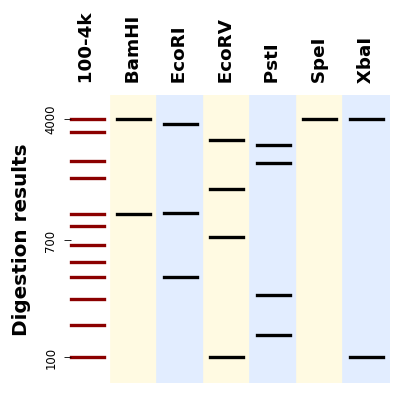
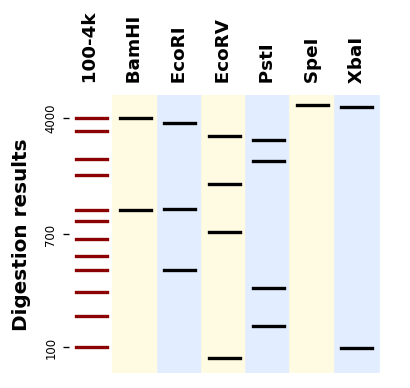
Fixed python3 differences in ladder ticks

diff --git a/bandwagon/BandsPattern.py b/bandwagon/BandsPattern.py
@@ -1,9 +1,10 @@
 """Define Bandwagon's classes Band, BandPattern, BandsPatternsSet."""
 
 import numpy as np
+from scipy.interpolate import CubicSpline
 from copy import deepcopy
 import matplotlib.pyplot as plt
-from .tools import place_inset_ax_in_data_coordinates, updated_dict
+from .tools import (place_inset_ax_in_data_coordinates, updated_dict)
 
 try:
     from bokeh.plotting import ColumnDataSource, figure
@@ -13,9 +14,6 @@ try:
     BOKEH_PANDAS_AVAILABLE = True
 except ImportError:
     BOKEH_PANDAS_AVAILABLE = False
-
-
-
 
 
 class Band:
@@ -206,7 +204,7 @@ class BandsPattern:
         """Create the variables necessary to compute some properties.
 
         Concerned properties are ``self.dna_sizes``,
-        ``self.migration_distances``, ``self.migration_distance_span``,
+        ``self.migration_distances``, ``self.migration_distances_span``,
         ``self.dna_size_span``, and indirectly the functions
         ``dna_size_to_migration`` and ``migration_to_dna_size``.
         """
@@ -216,24 +214,32 @@ class BandsPattern:
             np.array(e)
             for e in zip(*[
                 (band.dna_size, band.migration_distance)
-                for band in sorted(self.bands, key=lambda b: b.dna_size)
+                for band in sorted(set(self.bands), key=lambda b: b.dna_size)
             ])
         ]
-        self.migration_distance_span = (min(self.migration_distances),
-                                        max(self.migration_distances))
+        self.migration_distances_span = (min(self.migration_distances),
+                                         max(self.migration_distances))
         self.dna_size_span = min(self.dna_sizes), max(self.dna_sizes)
+        self._dna_size_to_migration_interpolator = None
+        self._migration_to_dna_size_interpolator = None
 
     def dna_size_to_migration(self, dna_sizes):
         """Return the migration distances for the given dna sizes"""
-        return np.interp(dna_sizes, self.dna_sizes, self.migration_distances,
-                         left=max(self.migration_distances),
-                         right=min(self.migration_distances))
+        if self._dna_size_to_migration_interpolator is None:
+            self._dna_size_to_migration_interpolator = CubicSpline(
+                self.dna_sizes, self.migration_distances,
+                bc_type='natural'
+            )
+        return self._dna_size_to_migration_interpolator(dna_sizes)
 
     def migration_to_dna_size(self, migration_distances):
         """Return the dna sizes corresponding to the given migrations."""
-        return np.interp(migration_distances, self.migration_distances[::-1],
-                         self.dna_sizes[::-1], left=min(self.dna_sizes),
-                         right=max(self.dna_sizes))
+        if self._migration_to_dna_size_interpolator is None:
+            self._migration_to_dna_size_interpolator = CubicSpline(
+                self.migration_distances[::-1], self.dna_sizes[::-1],
+                bc_type='natural'
+            )
+        return self._migration_to_dna_size_interpolator(migration_distances)
 
     def _processed_bands(self):
         """Return the bands modified by ``self.global_bands_props``"""
@@ -355,7 +361,6 @@ class BandsPatternsSet:
       columns. Leave to None for no background. If some patterns have a
       background color set this color will override the
       ``alternate_background_colors``.
-
     """
 
     def __init__(self, patterns, ladder, label=None, label_fontdict=None,
@@ -401,9 +406,12 @@ class BandsPatternsSet:
         if self.ladder is None:
             raise ValueError("Provide a `ladder` to BandsPatternsSet to enable"
                              " ladder ticks display.")
-        fontdict = updated_dict(dict(size=7, rotation=90), self.ticks_fontdict)
+        fontdict = updated_dict(
+            dict(size=7, rotation=90, verticalalignment='center'),
+            self.ticks_fontdict
+        )
         if isinstance(ticks, int):
-            bmin, bmax = self.ladder.migration_distance_span
+            bmin, bmax = self.ladder.migration_distances_span
             migrations = np.linspace(bmin, bmax, ticks)
             ticks = [self.ladder.migration_to_dna_size(m) for m in migrations]
             ticks = [int(np.round(b, -2)) for b in ticks]  # round to 100
@@ -430,7 +438,7 @@ class BandsPatternsSet:
         ax.set_frame_on(False)
         ax.set_yticks([])
         ax.set_xticks([])
-        y1, y2 = self.ladder.migration_distance_span
+        y1, y2 = self.ladder.migration_distances_span
         ax.set_ylim(-1.1 * y2, 0)
 
     def plot(self, ax=None):
@@ -441,6 +449,7 @@ class BandsPatternsSet:
         self._plot_label(ax)
         self._plot_ladder_ticks(ax)
         self._plot_patterns(ax)
+        ax.set_xlim(xmin=0.5)
         return ax
 
     def plot_with_bokeh(self, max_visible_patterns=12, band_width_pixels=40):
@@ -462,7 +471,7 @@ class BandsPatternsSet:
             raise ImportError("Install Bokeh and Pandas to use this feature")
         max_x = min(max_visible_patterns, len(self.patterns) + 1)
         max_migration = self.ladder.migration_distances.max()
-        mmin, mmax = self.ladder.migration_distance_span
+        mmin, mmax = self.ladder.migration_distances_span
         hw = 0.002 * abs(mmax - mmin)
         fig = figure(tools=[HoverTool(tooltips="@html", names=["bands"])] +
                            ["xwheel_zoom,xpan,reset, resize"],

diff --git a/bandwagon/tools.py b/bandwagon/tools.py
@@ -4,6 +4,32 @@ from Bio.Seq import Seq
 from Bio.SeqRecord import SeqRecord
 from Bio import Restriction
 from mpl_toolkits.axes_grid.inset_locator import inset_axes
+import numpy as np
+
+def np_spline_interpolator(xx, yy, npoints=3, deg=2):
+    """A poorman's spline interpolator, not using Scipy.
+
+    It is slower and more naive than Scipy's actual interpolator, but really
+    does its job here of interpolating ladders.
+    """
+    radius = int((npoints - 1) / 2)
+    centers = xx[radius: -radius]
+    print (centers)
+    interpolators = [
+        np.polyfit(xx[i-radius: i+radius+1], yy[i-radius: i+radius+1], 2)
+        for i in range(radius, len(xx) - radius)
+    ]
+    def f(x):
+        ii = np.interp(np.array(x), centers, range(len(centers)),
+                       left=0, right=(len(centers)-1))
+        if hasattr(ii, '__iter__'):
+            return np.array([
+                np.polyval(interpolators[i], _x)
+                for (i, _x) in zip(ii.astype(int), x)
+            ])
+        else:
+            return np.polyval(interpolators[int(ii)], x)
+    return f
 
 def compute_digestion_bands(sequence, enzymes, linear=True):
     """Return the band sizes [75, 2101, ...] resulting from enzymatic digestion
